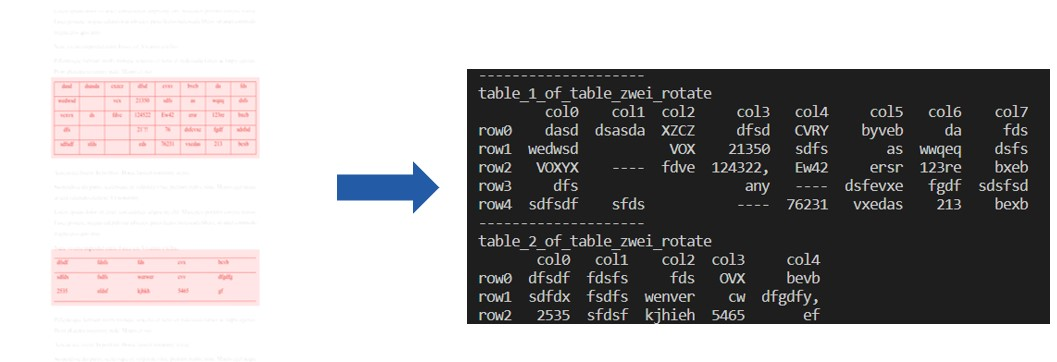
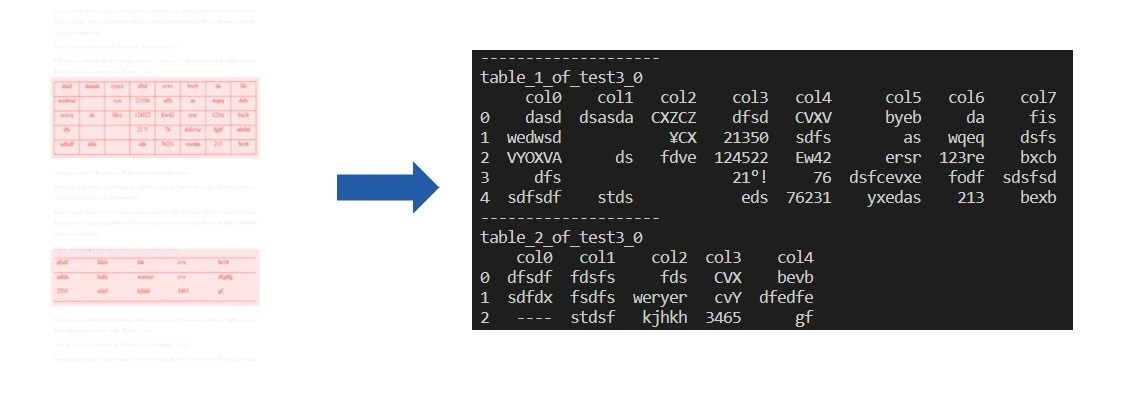
refresh images

Changed region(s): [[0.281, 0.1215, 0.9991, 0.9116], [0.0312, 0.1823, 0.2498, 0.4558], [0.0312, 0.6077, 0.2498, 0.8508]]

diff --git a/Development/functions.py b/Development/functions.py
@@ -1037,14 +1037,14 @@ def Main(img_path, model):
 
 
 if __name__ == '__main__':
-    img_path = 'Development\\imageTest\\test1.png'
+    img_path = 'Development\\imageTest\\test3_0.png'
 
     es.indices.delete(index='table', ignore=[400, 404])  # deletes whole index
 
     Main(img_path, model='tablenet')
     # model: 'tablenet', 'densenet' or 'unet'
 
-    time.sleep(1)
+    time.sleep(2)
     results = Search('table', 'all')
     print(results)
 
